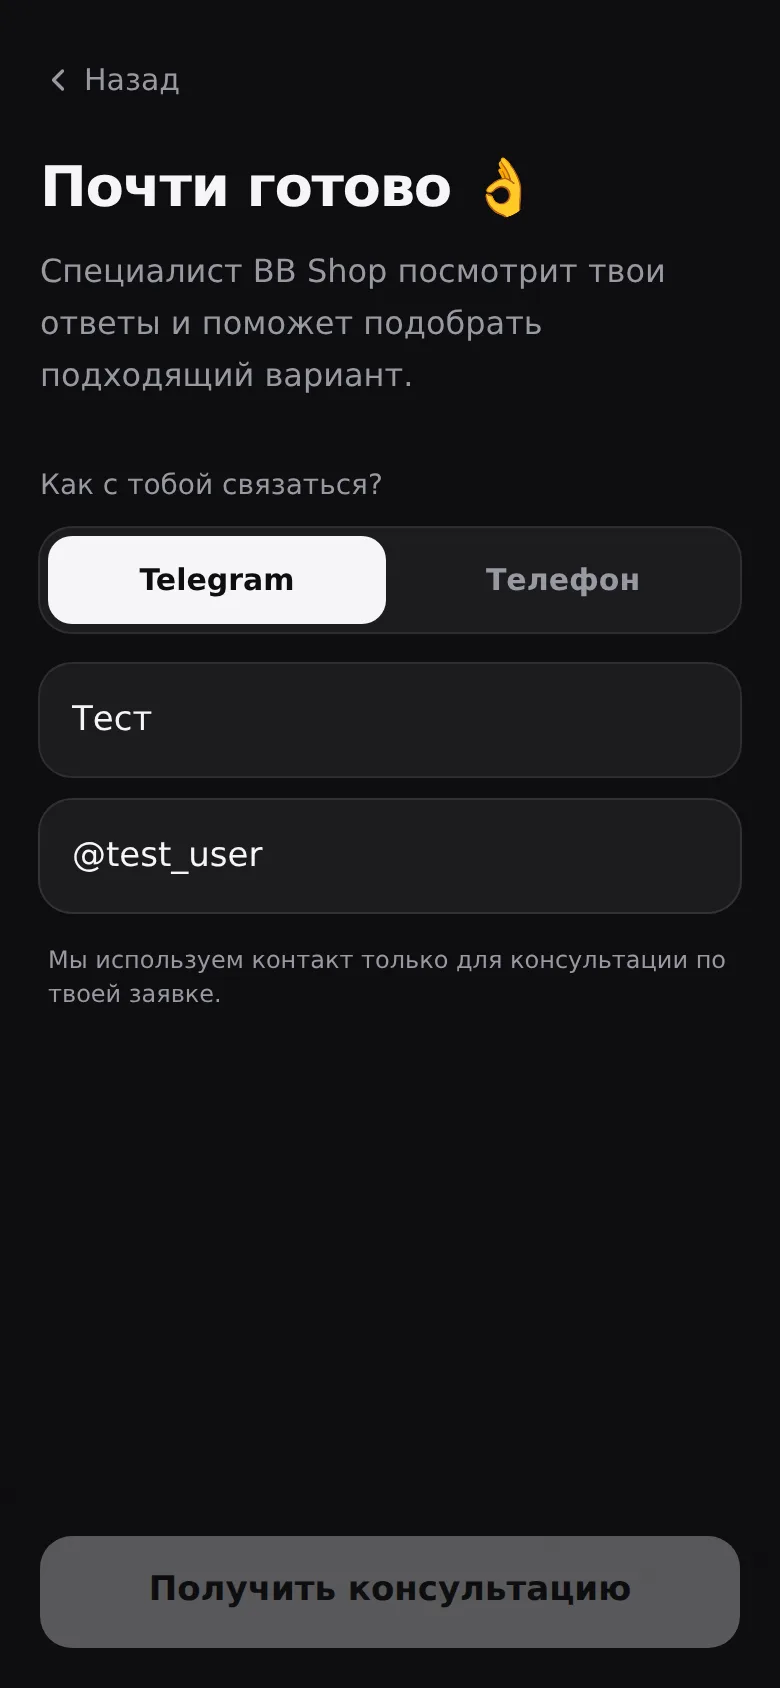
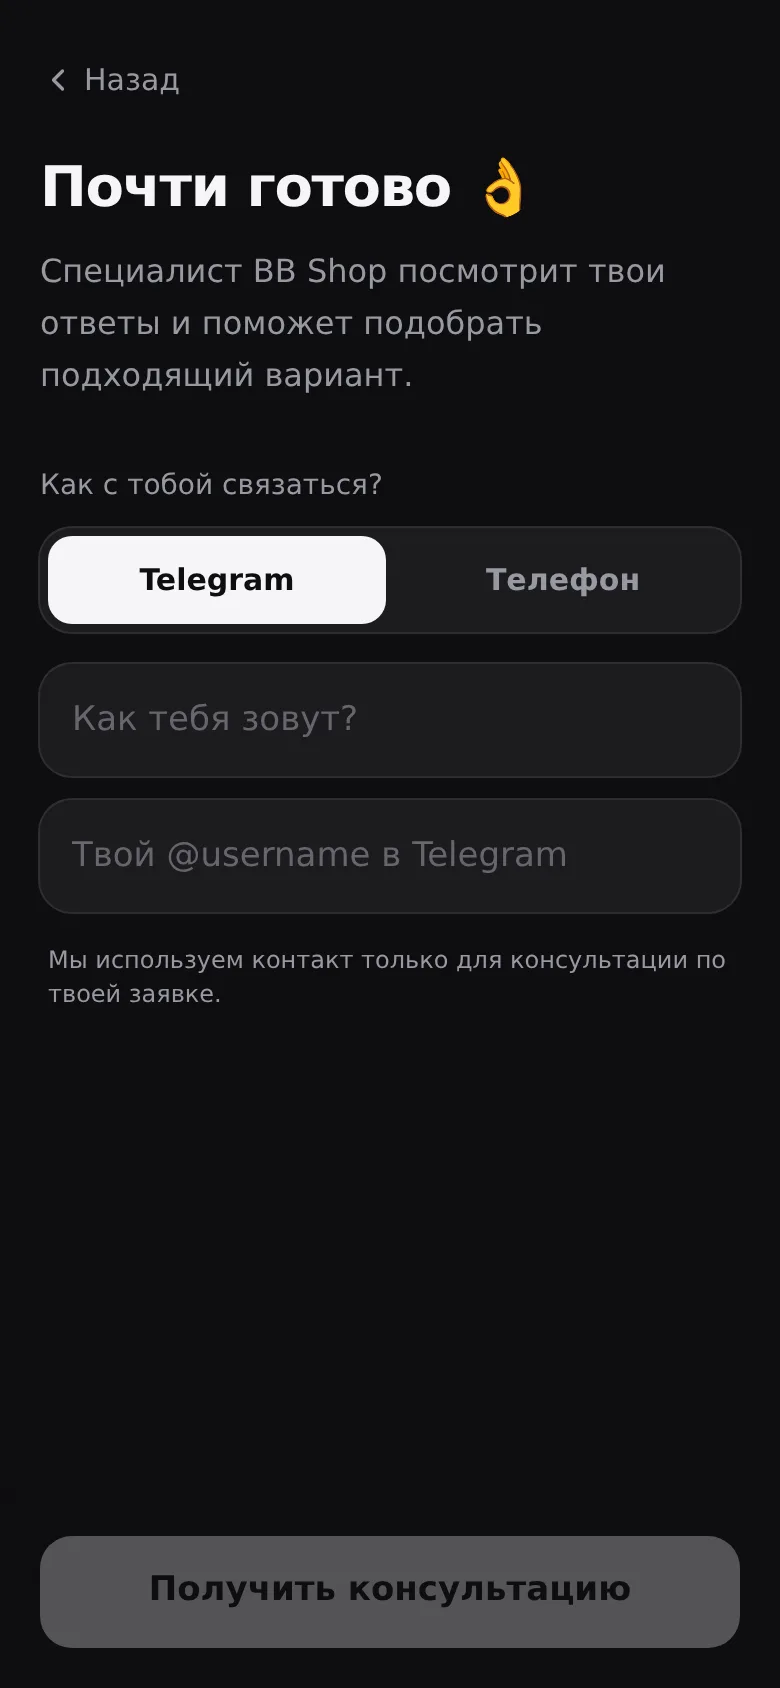
Make BB Shop the featured case, strengthen hero subtitle, add start-simple line to CTA
Claude-Session: https://claude.ai/code/session_01MtssNL2EaHsG2T1S1uXxhp

diff --git a/index.html b/index.html
@@ -59,7 +59,7 @@
   <div class="container hero__in">
     <p class="badge reveal"><span aria-hidden="true">✦</span> Digital solutions for business</p>
     <h1 id="hero-title" class="hero__title reveal">Ваш бизнес не должен работать вручную.</h1>
-    <p class="hero__lead reveal">Сайты, Telegram Mini Apps, боты и <strong>автоматизация процессов</strong> — от идеи до запуска.</p>
+    <p class="hero__lead reveal">Находим, что в вашем бизнесе делается вручную, и превращаем это в <strong>рабочую систему</strong>: Telegram Mini App, бот, сайт или автоматизация — от идеи до запуска.</p>
     <div class="cta reveal">
       <a class="btn btn--primary" href="https://t.me/yamulla" target="_blank" rel="noopener">Обсудить задачу <span aria-hidden="true">→</span></a>
       <a class="btn btn--ghost" href="#work">Смотреть проекты</a>
@@ -142,38 +142,70 @@
     <p class="label reveal">Selected work</p>
     <h2 class="section__title reveal" id="work-title">Реальные проекты.</h2>
 
-    <article class="case case--feature reveal" aria-labelledby="case-bb">
-      <div class="case__body">
-        <p class="label">Кейс · автоматизация заявок</p>
-        <h3 id="case-bb">BB Shop — Telegram Mini App</h3>
-        <p class="case__lead">Клиентский интерфейс для взаимодействия с магазином спортивного питания прямо внутри Telegram.</p>
-        <ul class="tags"><li>Telegram</li><li>Mini App</li><li>Автоматизация заявок</li></ul>
-        <dl class="qa">
-          <div><dt>Проблема</dt><dd>Главная ценность магазина — живая консультация специалиста. Но покупателю трудно самому выбрать спортпит, а разговор с продавцом каждый раз приходится начинать с нуля: цель, тренировки, вес, что уже принимает.</dd></div>
-          <div><dt>Решение</dt><dd>Mini App внутри Telegram: короткая анкета из 5 вопросов, контакт и автоматическая отправка заявки продавцу. Приложение ничего не продаёт — оно ведёт человека к консультации.</dd></div>
-          <div><dt>Что сделал YAMULLA</dt><dd><ul class="dolist">
-            <li>Спроектировал путь клиента: от ссылки до готовой заявки.</li>
-            <li>Сделал Mini App и Telegram-бота: интерфейс, проверки данных, светлая и тёмная тема.</li>
-            <li>Настроил автоматическую отправку заявки продавцу и защиту от спама.</li>
-            <li>Запустил приложение и подготовил ссылку для Stories.</li>
-          </ul></dd></div>
-          <div><dt>Результат</dt><dd>Продавец получает готовую структурированную заявку вместо переписки с нуля, а клиент проходит весь путь внутри Telegram, ничего не устанавливая.</dd></div>
-        </dl>
-        <a class="link" href="https://t.me/bodybshop_bot/app" target="_blank" rel="noopener">Открыть проект <span aria-hidden="true">→</span></a>
+    <article class="case case--feature case--star reveal" aria-labelledby="case-bb">
+      <div class="star__head">
+        <div>
+          <p class="label">Главный кейс · автоматизация заявок</p>
+          <h3 id="case-bb">BB Shop — Telegram Mini App</h3>
+          <p class="case__lead">Клиентский интерфейс для взаимодействия с магазином спортивного питания прямо внутри Telegram.</p>
+          <ul class="tags"><li>Telegram</li><li>Mini App</li><li>Автоматизация заявок</li></ul>
+        </div>
+        <aside class="try" aria-label="Открыть приложение">
+          <img class="try__qr" src="assets/bb-qr.svg" width="124" height="124" alt="QR-код: открыть BB Shop в Telegram">
+          <div>
+            <p class="try__t">Это работающее приложение</p>
+            <p class="try__s">Откройте и пройдите анкету сами: кнопкой или камерой телефона на QR-код.</p>
+            <a class="btn btn--primary" href="https://t.me/bodybshop_bot/app" target="_blank" rel="noopener">Открыть BB Shop <span aria-hidden="true">→</span></a>
+          </div>
+        </aside>
       </div>
-      <div class="case__vis">
-        <figure class="phone"><img src="assets/bb-welcome.webp" width="780" height="1688" loading="lazy" decoding="async" alt="BB Shop: приветственный экран Mini App"></figure>
-        <figure class="phone phone--b"><img src="assets/bb-contact.webp" width="780" height="1688" loading="lazy" decoding="async" alt="BB Shop: экран выбора способа связи"></figure>
+
+      <div class="stage">
+        <figure class="phone phone--l"><img src="assets/bb-welcome.webp" width="780" height="1688" loading="lazy" decoding="async" alt="BB Shop: приветственный экран Mini App"></figure>
+        <figure class="phone phone--l phone--c"><img src="assets/bb-question.webp" width="780" height="1688" loading="lazy" decoding="async" alt="BB Shop: первый вопрос анкеты — какая у тебя цель"></figure>
+        <figure class="phone phone--l phone--r"><img src="assets/bb-contact.webp" width="780" height="1688" loading="lazy" decoding="async" alt="BB Shop: выбор способа связи"></figure>
       </div>
+
+      <div class="triad">
+        <section class="triad__i" aria-label="Проблема">
+          <h4 class="label">Проблема</h4>
+          <p>Главная ценность магазина — живая консультация специалиста. Но покупателю трудно самому выбрать спортпит, а разговор каждый раз приходится начинать с нуля: цель, тренировки, вес, что уже принимает.</p>
+        </section>
+        <i class="triad__arrow" aria-hidden="true">→</i>
+        <section class="triad__i" aria-label="Решение">
+          <h4 class="label">Решение</h4>
+          <p>Mini App внутри Telegram: анкета из 5 вопросов, контакт и автоматическая отправка заявки продавцу. Приложение ничего не продаёт — оно ведёт человека к консультации.</p>
+        </section>
+        <i class="triad__arrow" aria-hidden="true">→</i>
+        <section class="triad__i triad__i--ok" aria-label="Что получил бизнес">
+          <h4 class="label">Что получил бизнес</h4>
+          <p>Готовую заявку прямо в Telegram: цель, режим тренировок, что клиент уже принимает, что хочет подобрать, вес и контакт.</p>
+          <ul class="checks"><li>Заявка приходит сама, без ручного переноса</li><li>Все вводные собраны ещё до разговора</li><li>Консультация начинается с готовых данных</li></ul>
+        </section>
+      </div>
+
       <div class="case__more">
-        <h4 class="label">Как работает процесс</h4>
-        <ol class="flow">
-          <li><b>Клиент</b><span>открывает ссылку из Stories или бота</span></li>
-          <li><b>Mini App</b><span>5 вопросов: цель, тренировки, что принимает, что нужно подобрать, вес</span></li>
-          <li><b>Контакт</b><span>Telegram или телефон</span></li>
-          <li><b>Бот</b><span>отправляет заявку автоматически</span></li>
-          <li><b>Продавец</b><span>получает готовую заявку и связывается</span></li>
-        </ol>
+        <div class="split split--top">
+          <div>
+            <h4 class="label">Что сделал YAMULLA</h4>
+            <ul class="dolist">
+              <li>Спроектировал путь клиента: от ссылки до готовой заявки.</li>
+              <li>Сделал Mini App и Telegram-бота: интерфейс, проверки данных, светлая и тёмная тема.</li>
+              <li>Настроил автоматическую отправку заявки продавцу и защиту от спама.</li>
+              <li>Запустил приложение и подготовил ссылку для Stories.</li>
+            </ul>
+          </div>
+          <div>
+            <h4 class="label">Как работает процесс</h4>
+            <ol class="flow flow--col">
+              <li><b>Клиент</b><span>открывает ссылку из Stories или бота</span></li>
+              <li><b>Mini App</b><span>5 вопросов: цель, тренировки, что принимает, что нужно подобрать, вес</span></li>
+              <li><b>Контакт</b><span>Telegram или телефон</span></li>
+              <li><b>Бот</b><span>отправляет заявку автоматически</span></li>
+              <li><b>Продавец</b><span>получает готовую заявку и связывается</span></li>
+            </ol>
+          </div>
+        </div>
         <div class="split">
           <div>
             <h4 class="label">Что реализовано</h4>
@@ -279,7 +311,7 @@
     <div class="final reveal">
       <p class="label">Contact</p>
       <h2 id="contact-title">Есть процесс, который хочется автоматизировать?</h2>
-      <p class="final__sub">Расскажите, как он работает сейчас. Вместе найдём, что можно упростить.</p>
+      <p class="final__sub final__sub--start">Не знаете, что именно автоматизировать? <strong>Просто расскажите, как сейчас работает процесс.</strong> Вместе найдём, что можно упростить.</p>
       <a class="btn btn--primary" href="https://t.me/yamulla" target="_blank" rel="noopener">Обсудить задачу <span aria-hidden="true">→</span></a>
       <p class="final__alt">Telegram <a href="https://t.me/yamulla" target="_blank" rel="noopener">@yamulla</a><!-- TODO: добавить Email, когда будет адрес --></p>
     </div>

diff --git a/style.css b/style.css
@@ -213,3 +213,34 @@ a{color:inherit;text-decoration:none}
   .flow{grid-template-columns:repeat(5,1fr);gap:12px}.flow li{padding:44px 16px 16px}.flow li::before{top:16px}
   .split{grid-template-columns:1.25fr 1fr;gap:44px;align-items:start}
 }
+
+/* главный кейс BB Shop */
+.hero__lead strong{color:#fff}
+.case--star{display:block;border-color:#333;background:linear-gradient(180deg,#0b0b0b,#050505)}
+.star__head{display:grid;gap:26px;padding:30px 22px 8px}
+.case--star h3{font-family:var(--head);font-weight:700;font-size:clamp(28px,4.4vw,42px);letter-spacing:-.035em;line-height:1.05;margin:12px 0 10px}
+.try{display:flex;gap:18px;align-items:center;border:1px solid #2c2c2c;border-radius:20px;background:#0c0c0c;padding:18px}
+.try__qr{display:none;width:124px;height:124px;border-radius:12px;background:#fff;padding:6px;flex:none}
+.try__t{font-family:var(--head);font-weight:700;font-size:18px}.try__s{color:var(--mut);font-size:14px;line-height:1.5;margin:4px 0 14px}.try .btn{min-height:46px;padding:0 20px;font-size:15px}
+.stage{display:flex;justify-content:center;align-items:flex-end;gap:12px;padding:34px 14px 0;margin-top:22px;background:radial-gradient(520px 340px at 50% 55%,#202020,#050505);border-top:1px solid var(--line);overflow:hidden}
+.phone--l{width:46%;max-width:300px;margin:0;border-bottom-left-radius:0;border-bottom-right-radius:0;border-bottom:0;box-shadow:0 -10px 70px rgba(255,255,255,.07)}
+.phone--l img{border-bottom-left-radius:0;border-bottom-right-radius:0}
+.phone--r{display:none}.phone--c{margin-bottom:0;transform:translateY(-22px)}
+.triad{display:grid;gap:12px;padding:26px 22px;border-top:1px solid var(--line)}
+.triad__i{border:1px solid var(--line);border-radius:18px;background:var(--s1);padding:22px}.triad__i p{color:#cfcfcf;font-size:16px;line-height:1.6;margin-top:10px}
+.triad__i--ok{border-color:#4a4a4a;background:linear-gradient(180deg,#151515,#080808)}.triad__i--ok .label{color:#fff}
+.triad__arrow{display:none;font-style:normal;font-family:var(--mono);color:var(--mut);align-self:center;font-size:22px}
+.checks{display:grid;gap:8px;margin-top:14px}.checks li{position:relative;padding-left:24px;color:#fff;font-size:15px;line-height:1.45;font-weight:500}.checks li::before{content:"✓";position:absolute;left:0;font-family:var(--mono);font-size:13px;top:1px}
+.case--star .case__more{border-top:1px solid var(--line)}
+.split--top{margin-bottom:34px}.flow--col{grid-template-columns:1fr!important}.flow--col li{padding:14px 16px 14px 48px!important}.flow--col li::before{top:14px!important}
+.final__sub--start strong{color:#fff;font-weight:600}.final__sub--start{font-size:clamp(17px,2.6vw,21px);max-width:32em}
+@media (min-width:900px){
+  .star__head{grid-template-columns:1.3fr 1fr;gap:44px;align-items:center;padding:48px 48px 12px}
+  .try{padding:22px}.try__qr{display:block}
+  .stage{gap:22px;padding:48px 24px 0}.phone--l{width:27%;max-width:310px}.phone--r{display:block}.phone--c{transform:translateY(-34px)}
+  .triad{grid-template-columns:1fr 24px 1fr 24px 1.15fr;gap:10px;padding:34px 48px;align-items:stretch}
+  .triad__arrow{display:flex;justify-content:center}
+  .triad__i{padding:26px}.triad__i p{font-size:16.5px}
+  .case--star .case__more{padding:40px 48px 48px}
+  .split--top{grid-template-columns:1fr 1fr}
+}
